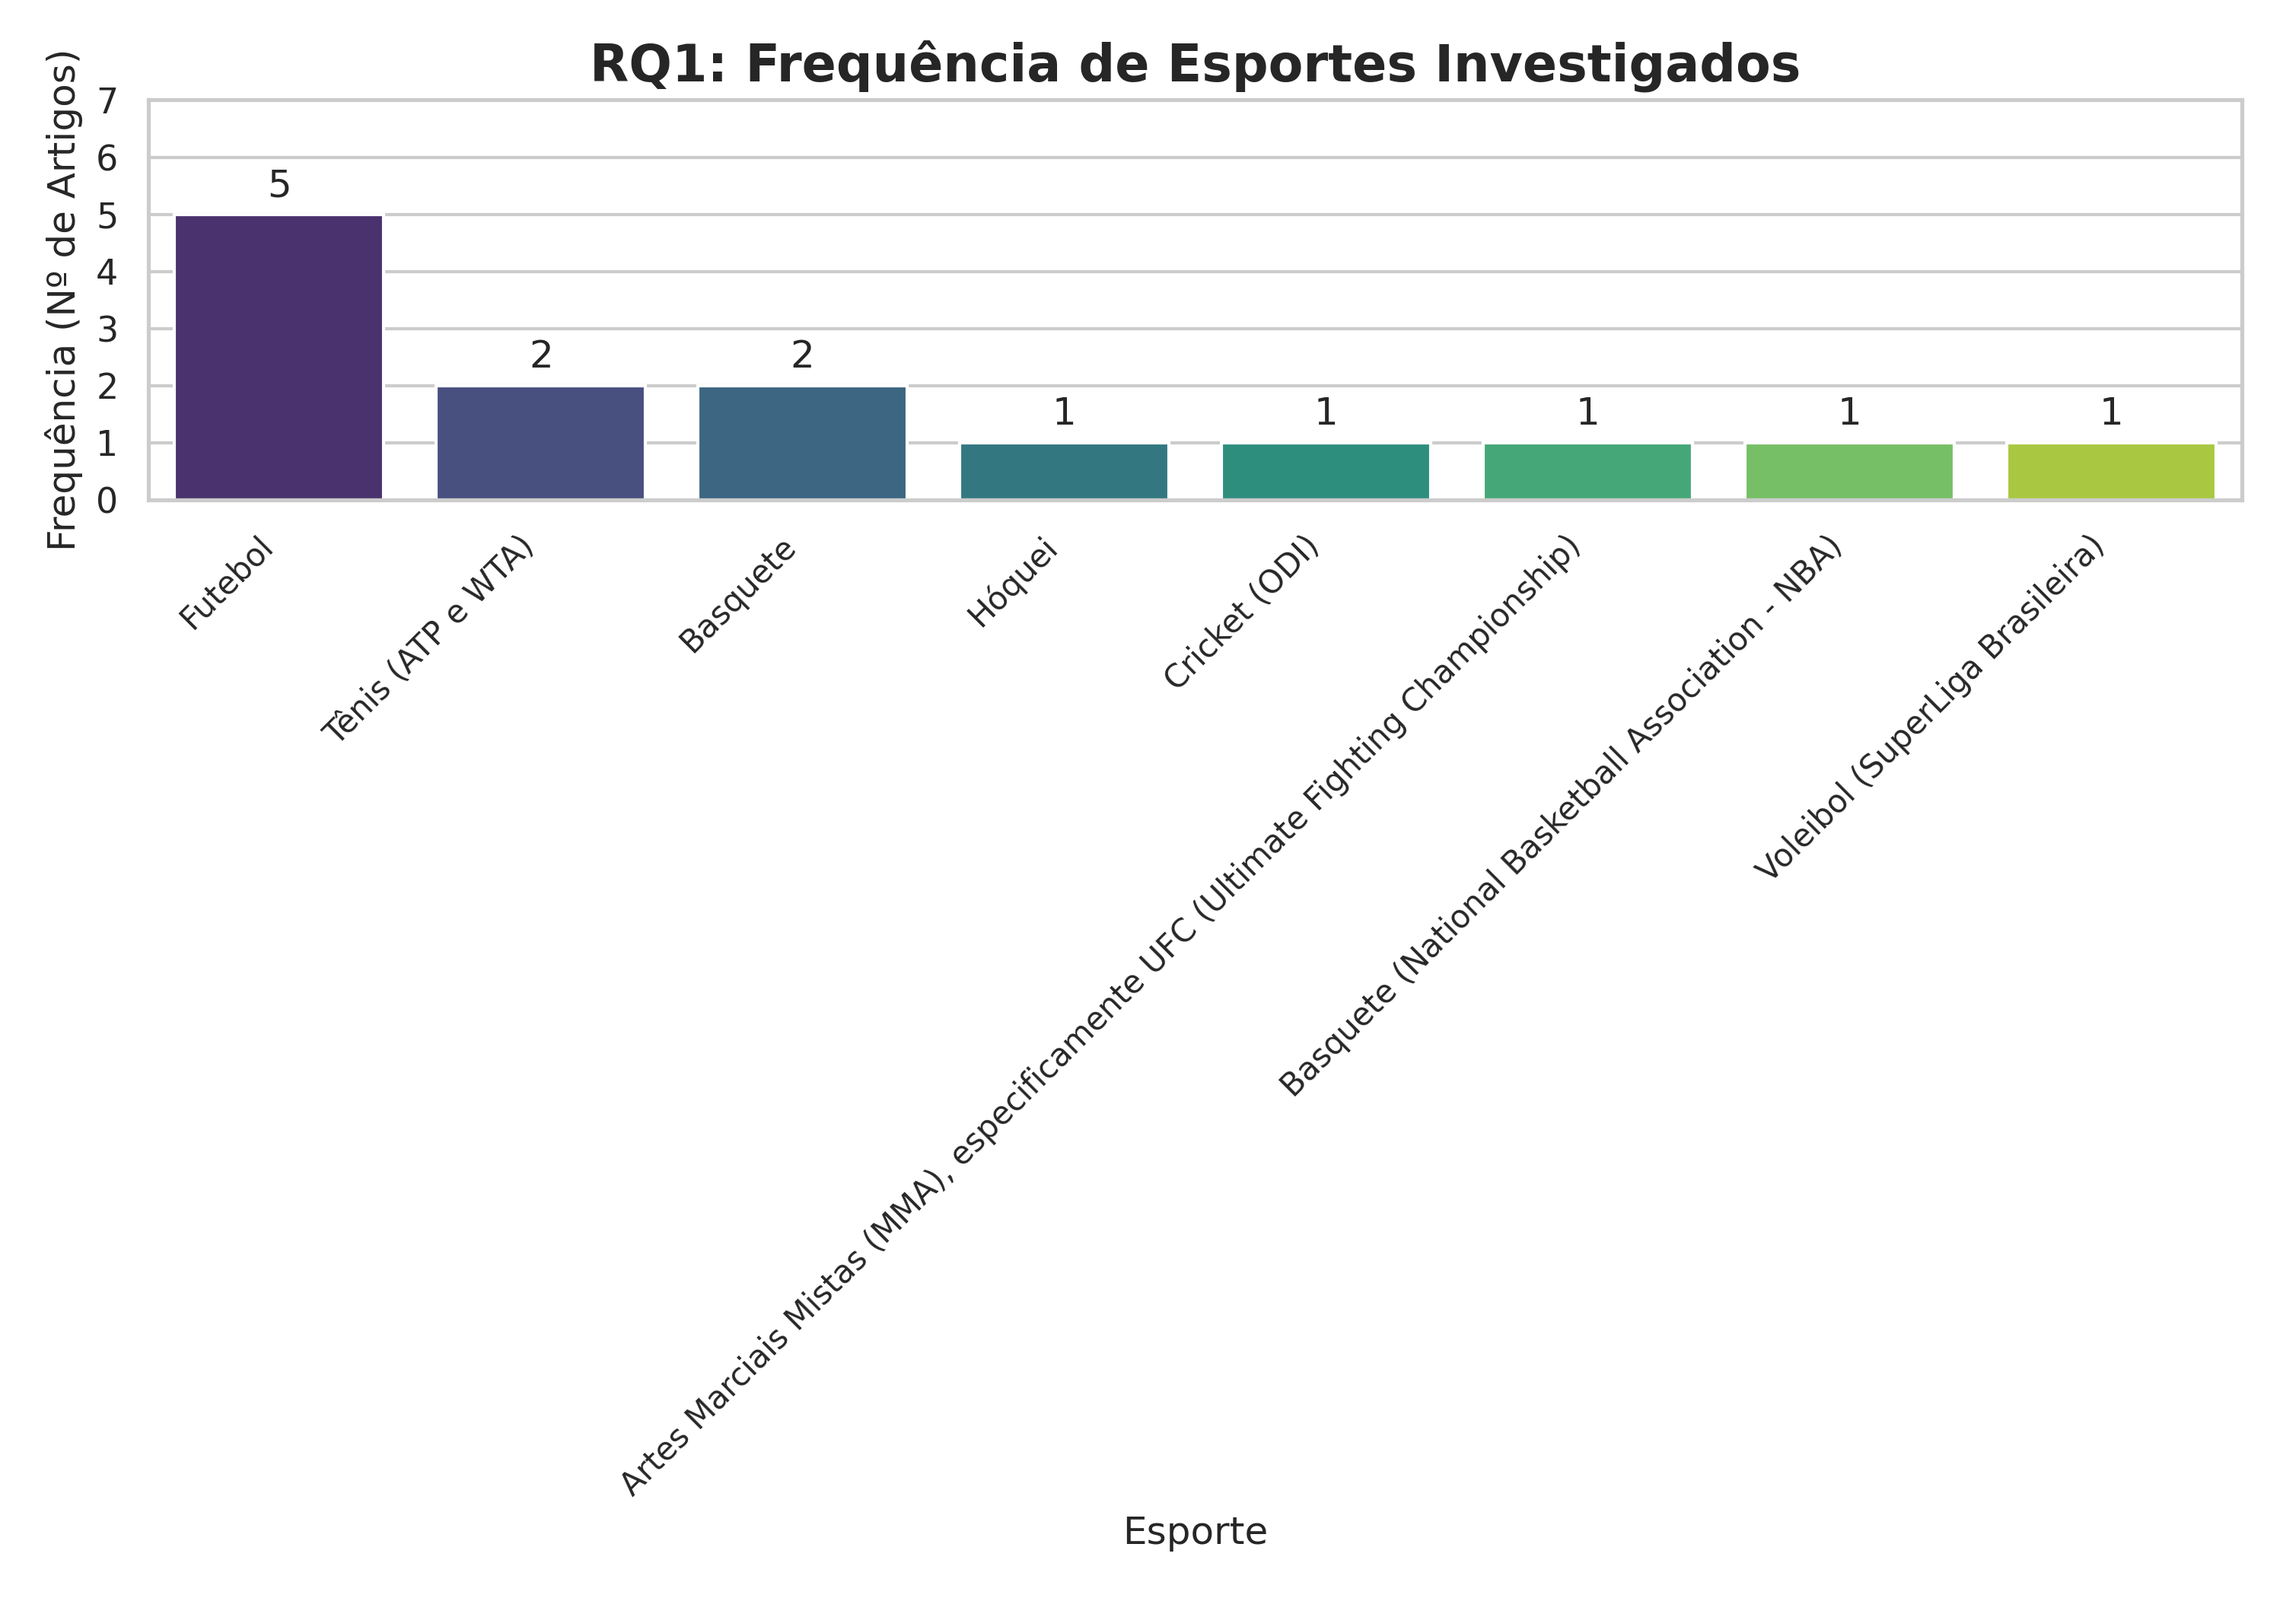
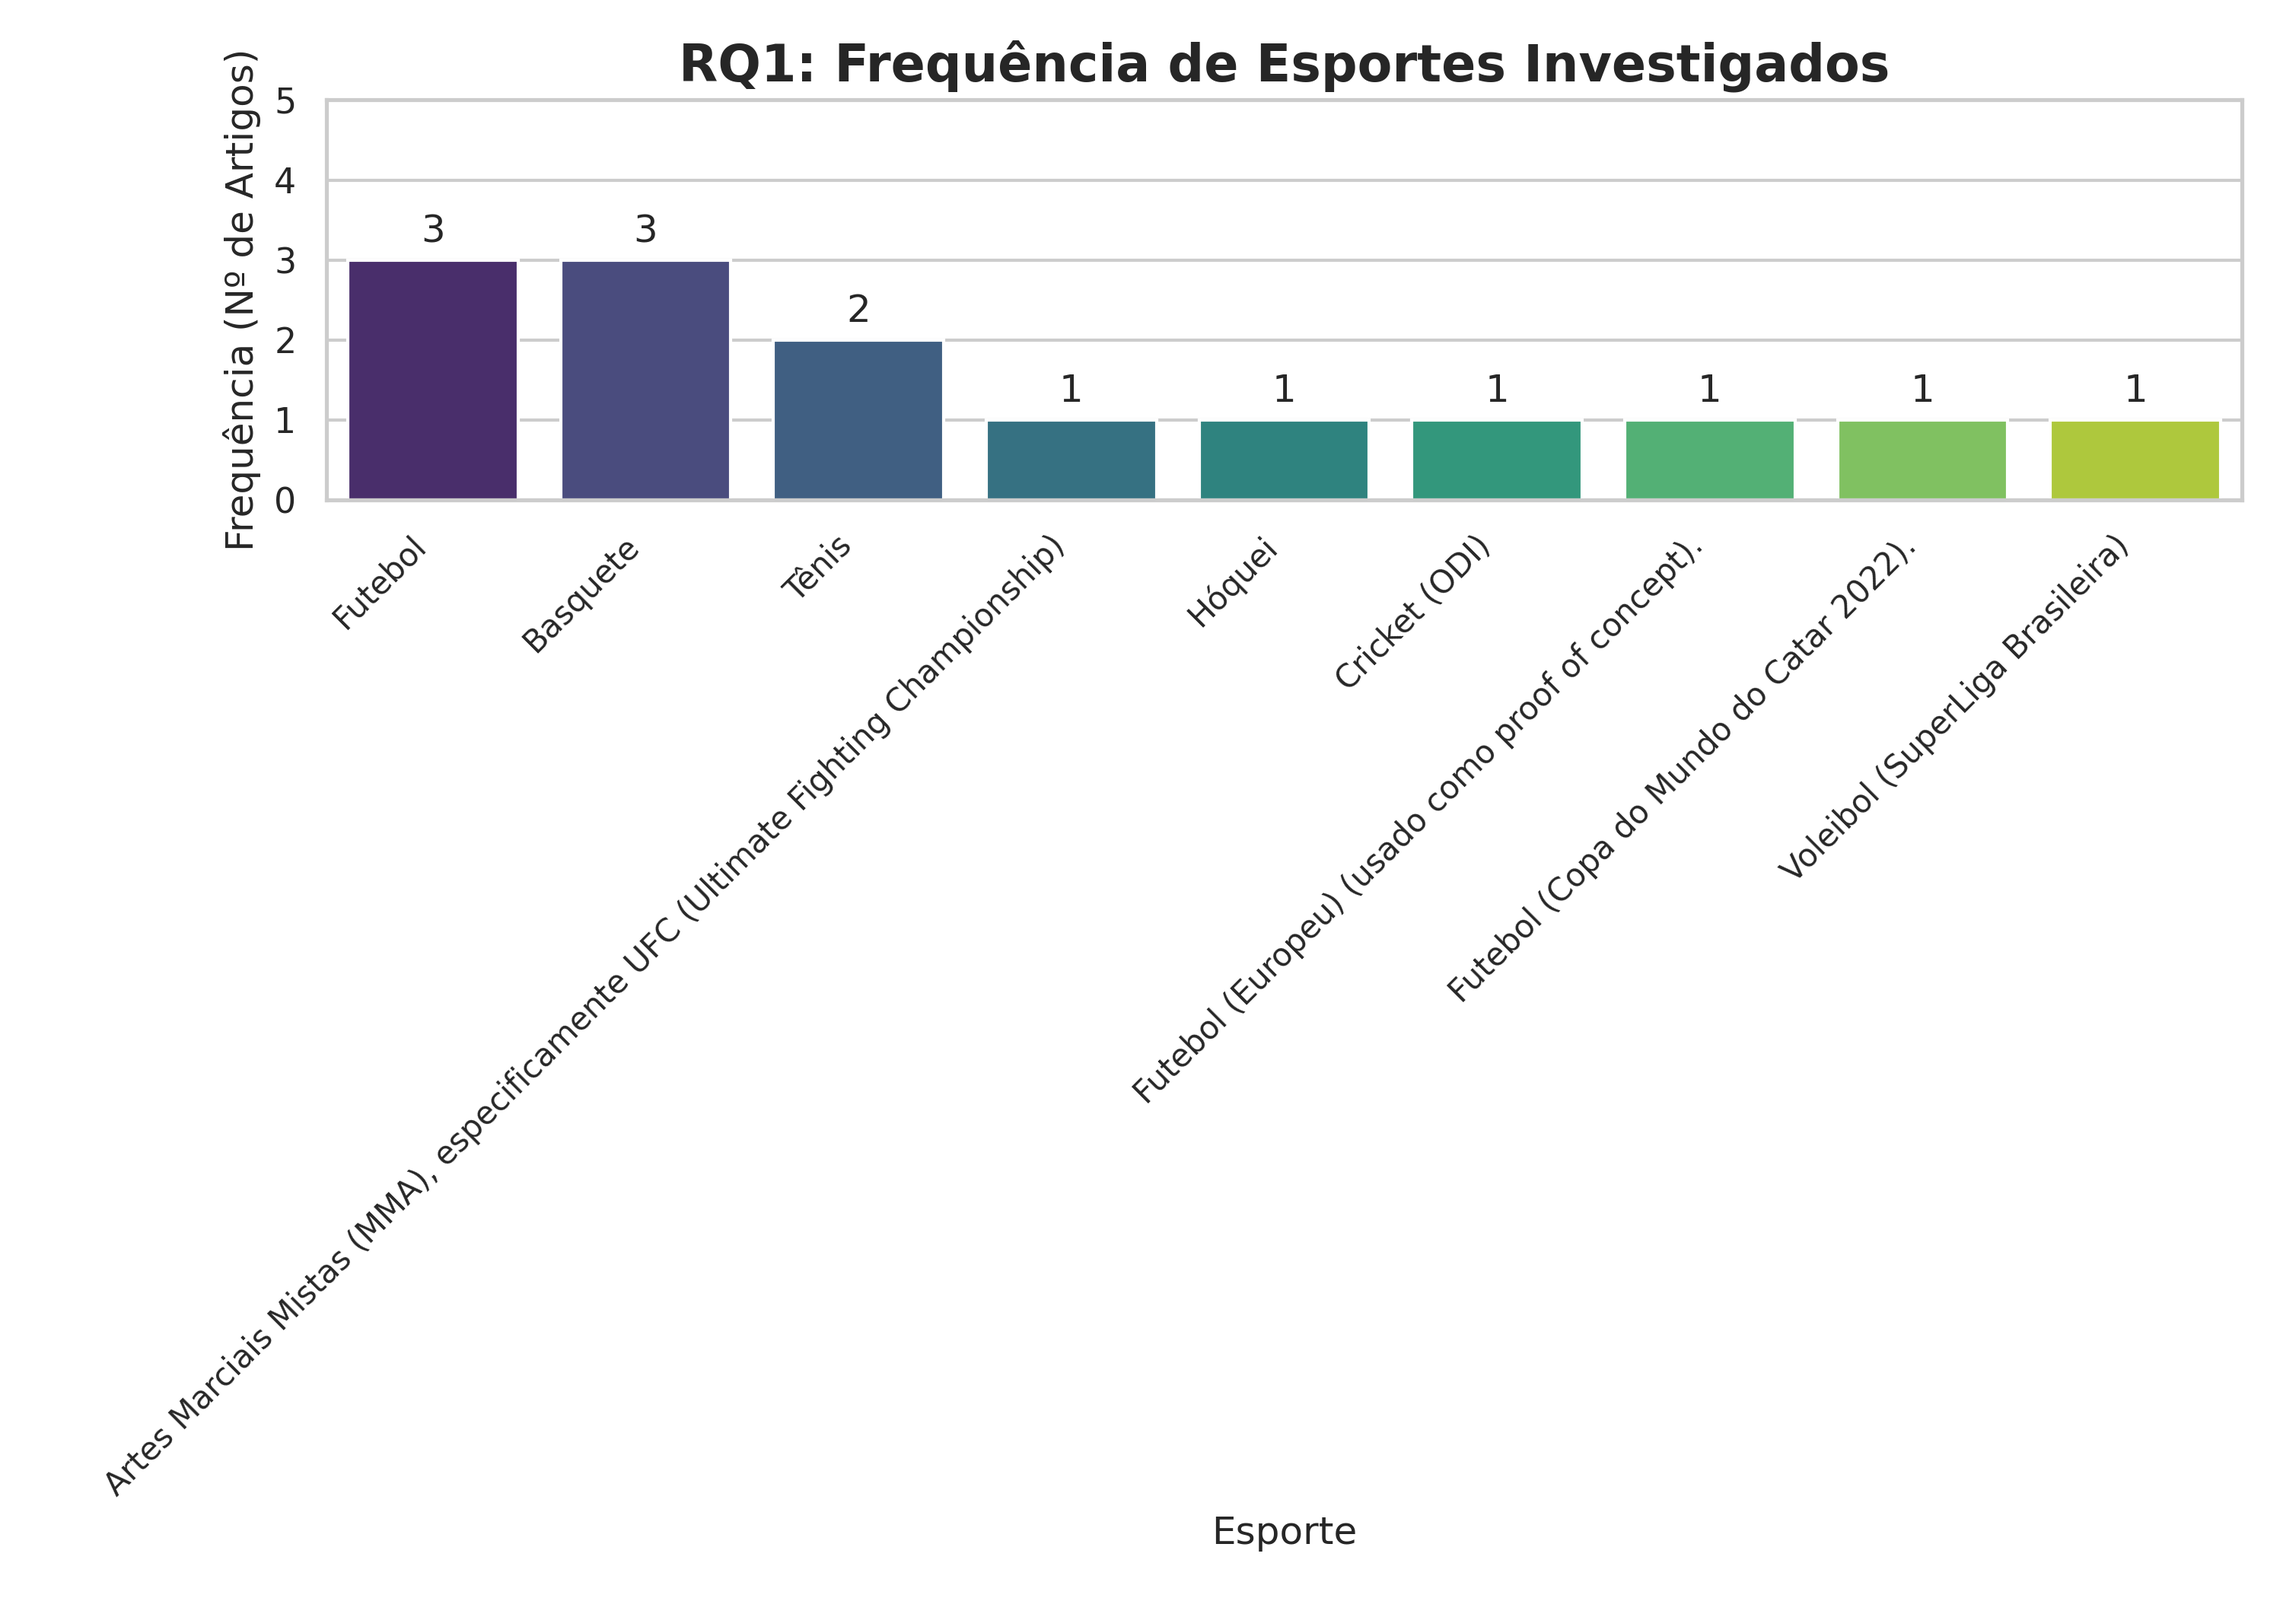
fix: corrige os nomes na RQ1.

diff --git a/ce_graficos.py b/ce_graficos.py
@@ -203,7 +203,7 @@ def plot_horizontal_bar(data, title, filename, xlabel, ylabel, figsize=(10, 8)):
 
     plt.figure(figsize=figsize)
 
-    # A linha 'legend=False' foi removida
+    # A linha 'legend=False' FOI REMOVIDA
     barplot = sns.barplot(
         x='Frequência',
         y='Categoria',
@@ -247,7 +247,7 @@ def plot_vertical_bar(data, title, filename, xlabel, ylabel, figsize=(10, 6)):
 
     plt.figure(figsize=figsize)
 
-    # A linha 'legend=False' foi removida
+    # A linha 'legend=False' FOI REMOVIDA
     barplot = sns.barplot(
         x='Categoria',
         y='Frequência',
@@ -285,36 +285,38 @@ def plot_vertical_bar(data, title, filename, xlabel, ylabel, figsize=(10, 6)):
     print(f"Gráfico salvo: {filename}")
 
 
-# --- Execução Principal (CORRIGIDA PARA 4 RQs E ARQUIVO CORRETO) ---
+# --- Execução Principal (VERSÃO FINAL CORRIGIDA) ---
 try:
-    # Use o nome do arquivo que você confirmou que está correto
+    # Verifique se o nome do seu arquivo CSV está correto aqui
     file_name = "14 - 14.csv" 
     df = pd.read_csv(file_name, encoding="utf-8")
     print(f"Planilha '{file_name}' carregada com sucesso.")
 
     # --- RQ1 (Panorama - Gráfico 1): Esportes ---
-    df['Esporte_Limpo'] = df['Esporte'].apply(
-        lambda x: 'Futebol' if 'Futebol' in str(x) else x)
-    df['Esporte_Limpo'] = df['Esporte_Limpo'].apply(
-        lambda x: 'Futebol' if 'Soccer' in str(x) else x)
+    
+    # Assegura que a coluna é string e remove espaços extras
+    df['Esporte_Limpo'] = df['Esporte'].astype(str).str.strip()
 
-    # --- CORREÇÃO ADICIONADA: MAPA DE ABREVIAÇÕES ---
-    sport_abbreviations = {
-        'Basquete (NBA)': 'Basquete',
-        'Tênis': 'Tênis',
-        'Ice Hockey (NHL)': 'Hóquei',
-        'Futebol Americano (Sim.)': 'Futebol Americano',
-        'Cricket': 'Cricket',
-        'Voleibol': 'Voleibol',
-        'Futebol': 'Futebol'
-    }
-    df['Esporte_Limpo'] = df['Esporte_Limpo'].apply(lambda x: sport_abbreviations.get(str(x), str(x)))
-    # --- FIM DA CORREÇÃO ---
-
+    # 1. Filtra lixo PRIMEIRO
     mascara_filtro = df['Esporte_Limpo'].str.contains("Não se aplica|indústria", na=False, case=False)
     df_filtrado_rq1 = df[~mascara_filtro].copy()
 
+    # 2. Normaliza Futebol (só para garantir)
+    df_filtrado_rq1.loc[df_filtrado_rq1['Esporte_Limpo'].str.contains('Soccer', case=False), 'Esporte_Limpo'] = 'Futebol'
+    
+    # 3. Normaliza Basquete (PARA JUNTAR "Basquete (NBA)" e "Basquete")
+    df_filtrado_rq1.loc[df_filtrado_rq1['Esporte_Limpo'].str.contains('Basquete', case=False), 'Esporte_Limpo'] = 'Basquete'
+    
+    # 4. Normaliza Tênis (só para garantir)
+    df_filtrado_rq1.loc[df_filtrado_rq1['Esporte_Limpo'].str.contains('Tênis', case=False), 'Esporte_Limpo'] = 'Tênis'
+
+    # 5. Normaliza os outros para nomes curtos (PARA ENCURTAR OS TÍTULOS)
+    df_filtrado_rq1.loc[df_filtrado_rq1['Esporte_Limpo'].str.contains('Ice Hockey', case=False), 'Esporte_Limpo'] = 'Hóquei'
+    df_filtrado_rq1.loc[df_filtrado_rq1['Esporte_Limpo'].str.contains('Futebol Americano', case=False), 'Esporte_Limpo'] = 'Futebol Americano'
+
+    # 6. Agora, conta os valores
     sport_counts = df_filtrado_rq1['Esporte_Limpo'].value_counts()
+    
     plot_vertical_bar(
         data=sport_counts,
         title="RQ1: Frequência de Esportes Investigados",
